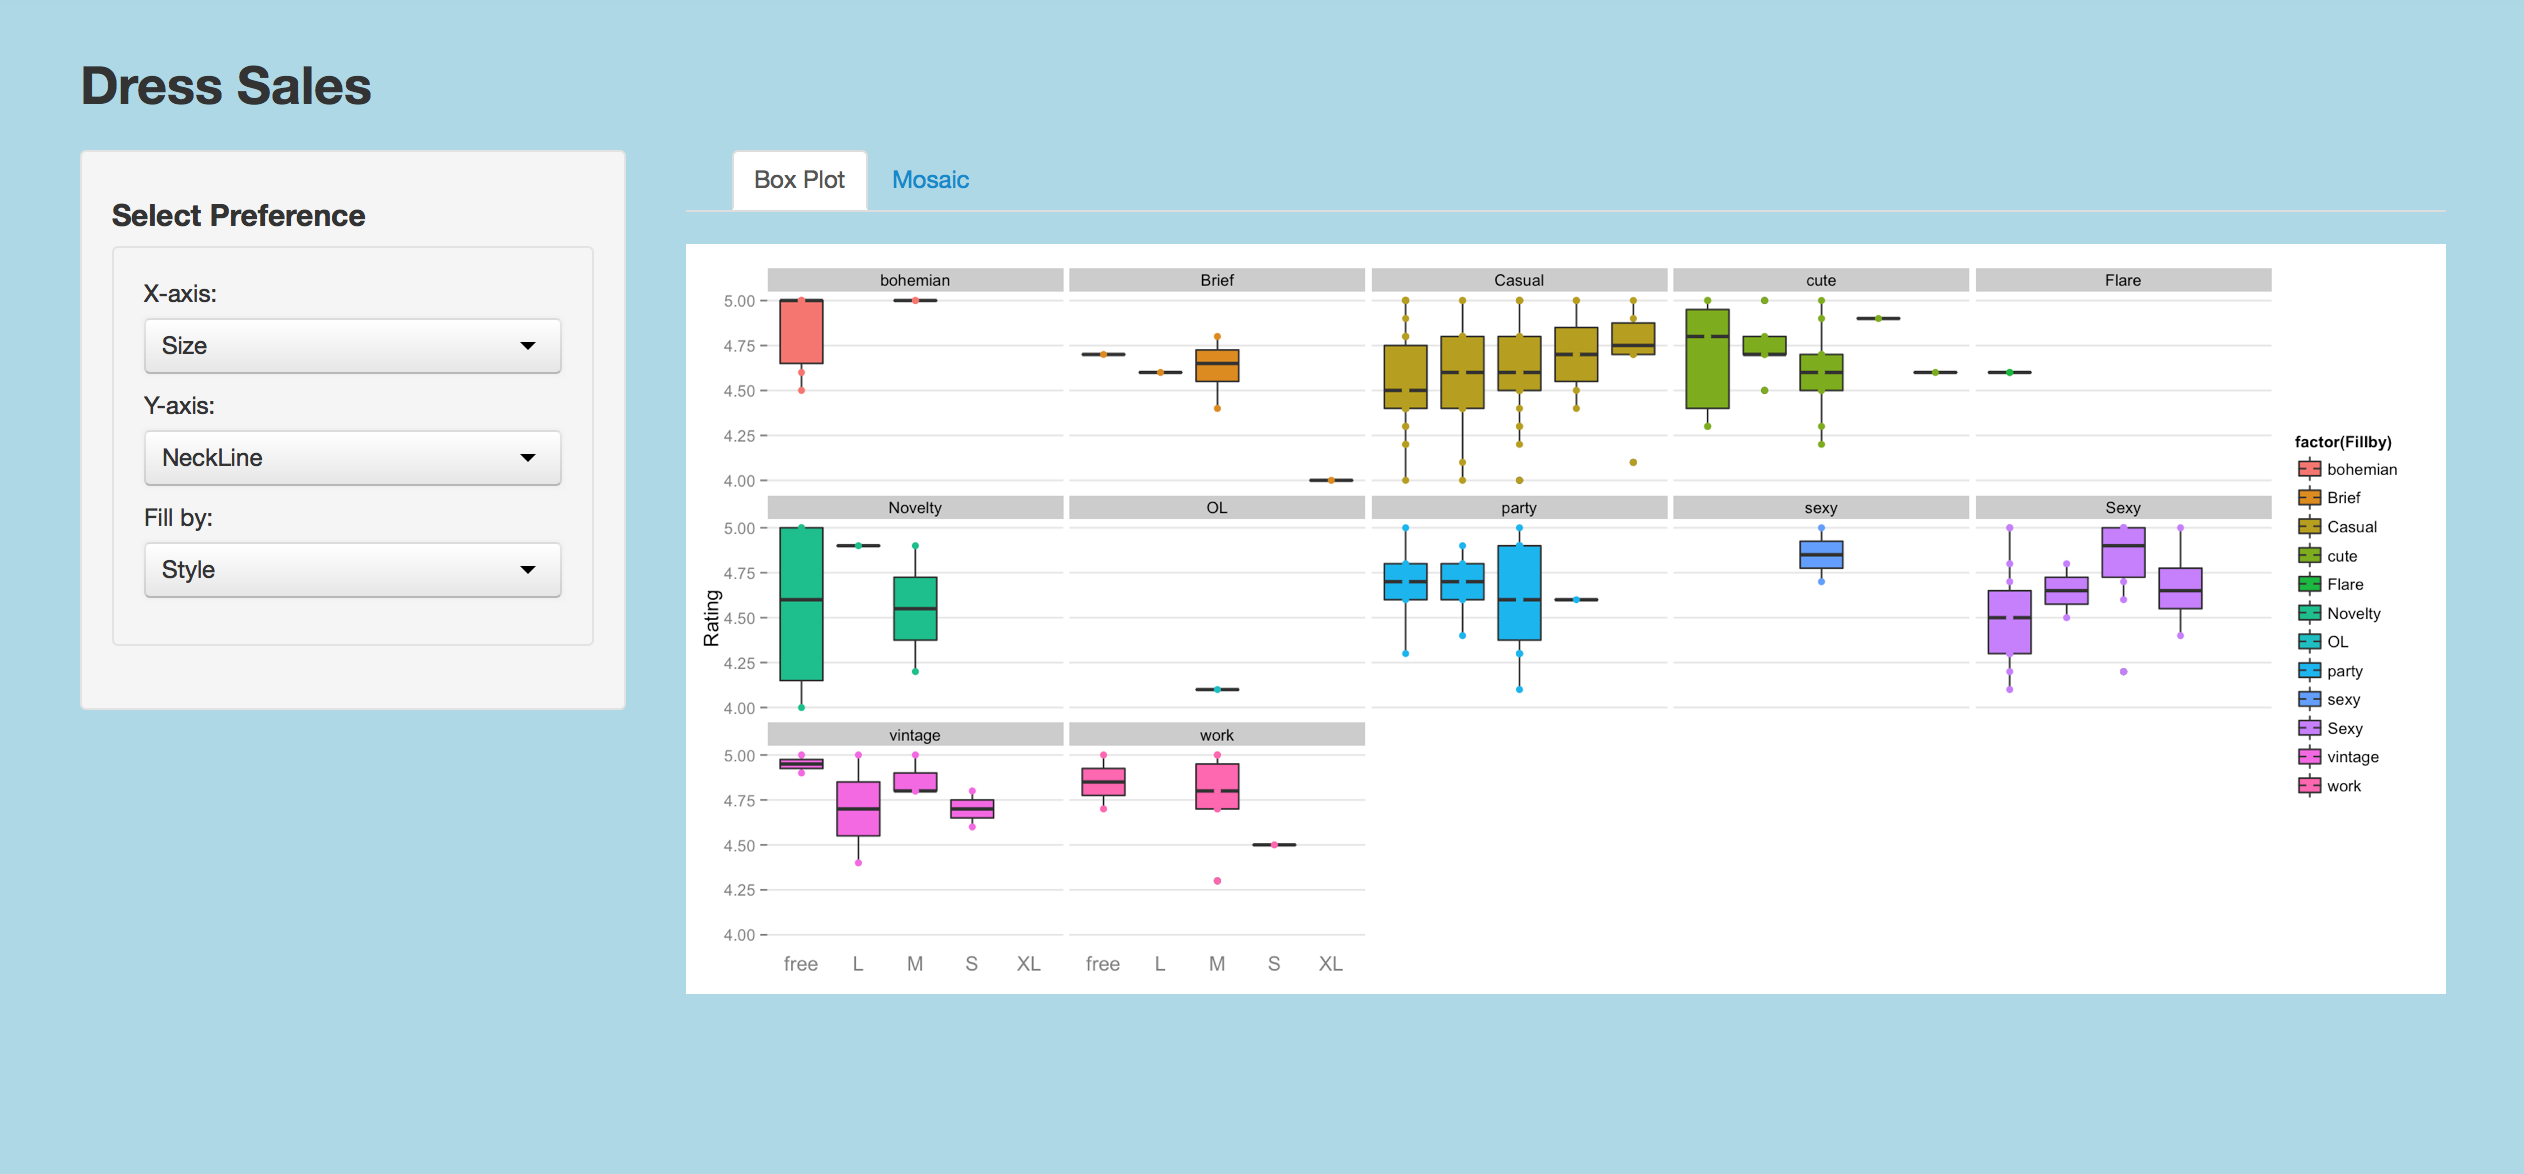
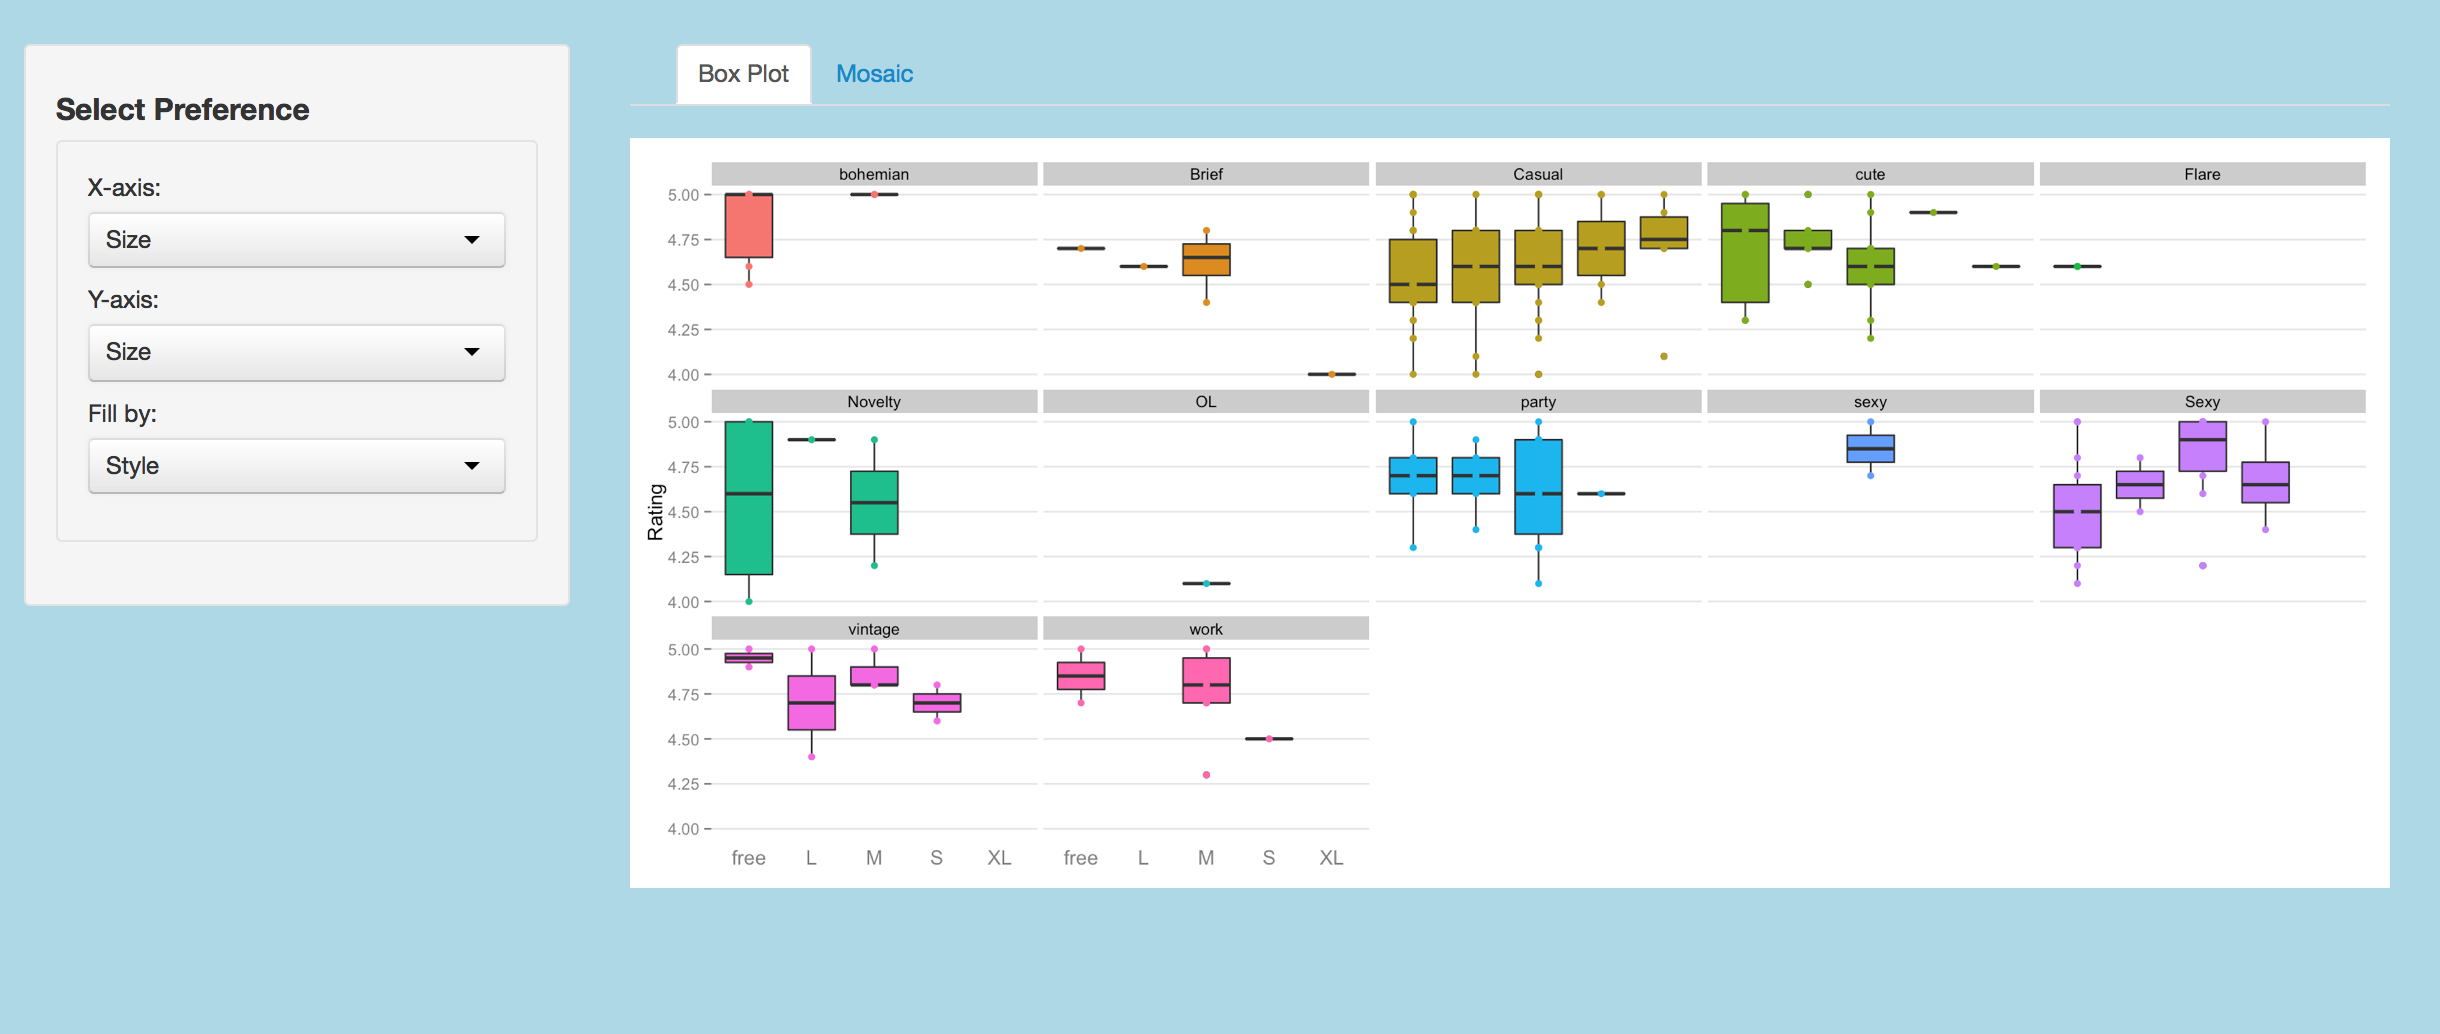
update

Changed region(s): [[0.0, 0.0309, 0.9967, 0.8665], [0.4984, 0.7118, 0.5295, 0.7427]]

diff --git a/final-project/README.md b/final-project/README.md
@@ -204,25 +204,27 @@ the interface give advice for them to make better decision by modeling and predi
   First, I only used categorical variables; 
   Second, I deleted `NA` values by using `na.omit`; 
   Third,  I changed all the categorical variables' type to factor;
-  In addition, I merged similar factor levels of a categorial variable together. For example, 's', 'S', 'Small',are 'small' are merged into a same factor level ;
+  In addition, I merged similar factor levels of a categorial variable together. For example, 's', 'S', 'Small',and 'small' are merged into a same factor level ;
  
 * Evaluation:
   The lie factor of this plot is also 1 since there is no misrepresentation and the distribution and shape of box is just based on the 
   accurate rating vales by x variable; The data-density is relative high
-  (the density can be increased or decreased by using different `fill by` variable, which will be described  in the interactivity part); The legend makes the data-ink a little 
-  bit low, but I think it is necessary in my plot to distinguish months. I think the data-ink ratio is good for this plot after
-  I removed excessive axis titles, grid, tick marks.
+  (the density can be increased or decreased by using different `fill by` variable, which will be described  in the interactivity part); 
+  I deleted the original legend since it makes the data-ink a little bit low, and instead I created grey label on the top of the plot 
+  to distinguish different categories of `fill by` variable. I think the data-ink ratio is good for this plot after
+  I removed excessive axis titles, grid, tick marks, and legend.
 
 * What I learned about the dataset from the visualization:
-  From the above small multiples, we can see the detailed sales record by month and day. In general, the sales in August
-  are higher than other months except October 28th to 30th. Also there is a sudden increase　sales in middle of October due to some unknown reason which need
-  more data analysis to explore.
-
+  From the above Boxplot, we can see that, no matter the price level of the dress, its ratings in summer are always higher than other
+  season, which means dresses sold in summer was easier to get good rating. 
+  
+* Interactivity
+  ![IMAGE](Tech3.png)
 
 
 ## Technique Four --- Mosaic Plot ##
 
-  ![IMAGE](Tech4.png)
+  ![IMAGE](inter5.png)
 
 ## Technique Five --- Time Series Plot ## 
 
